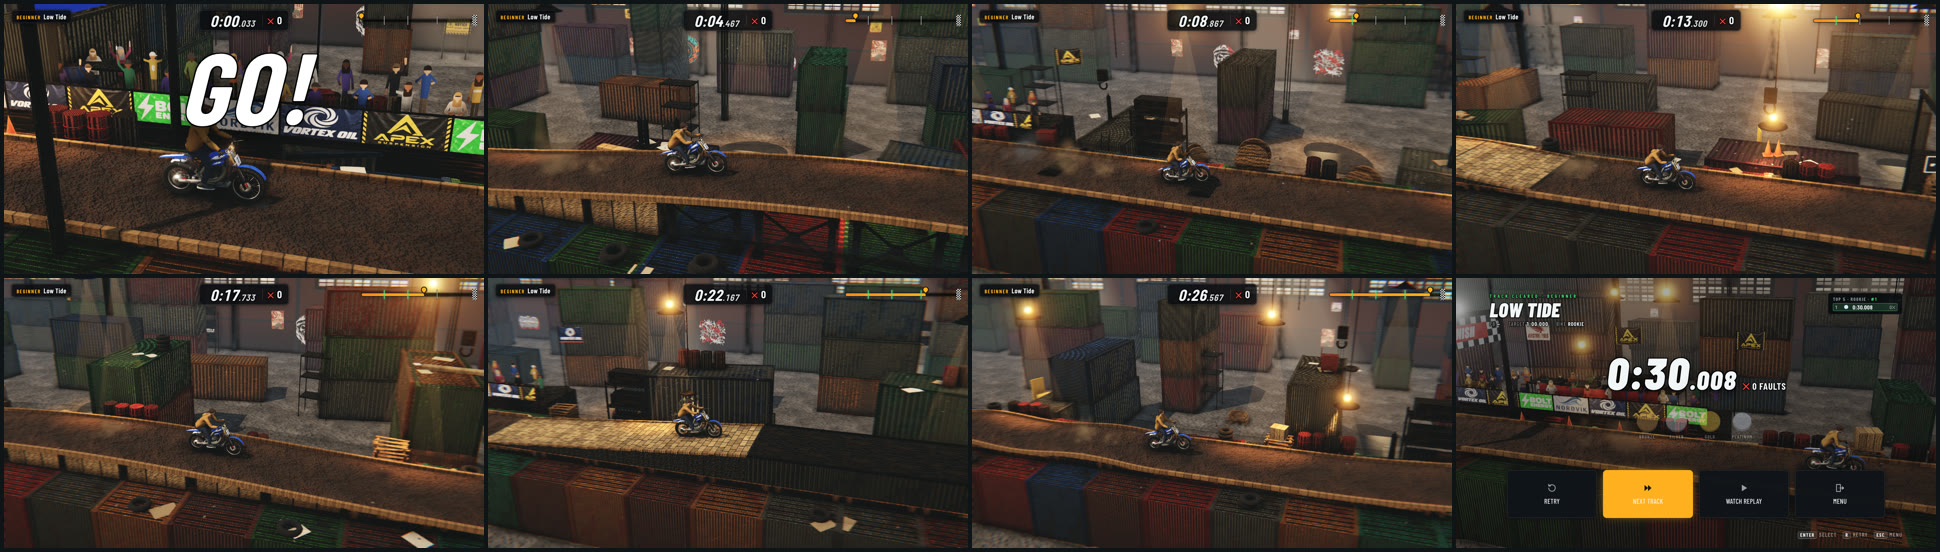
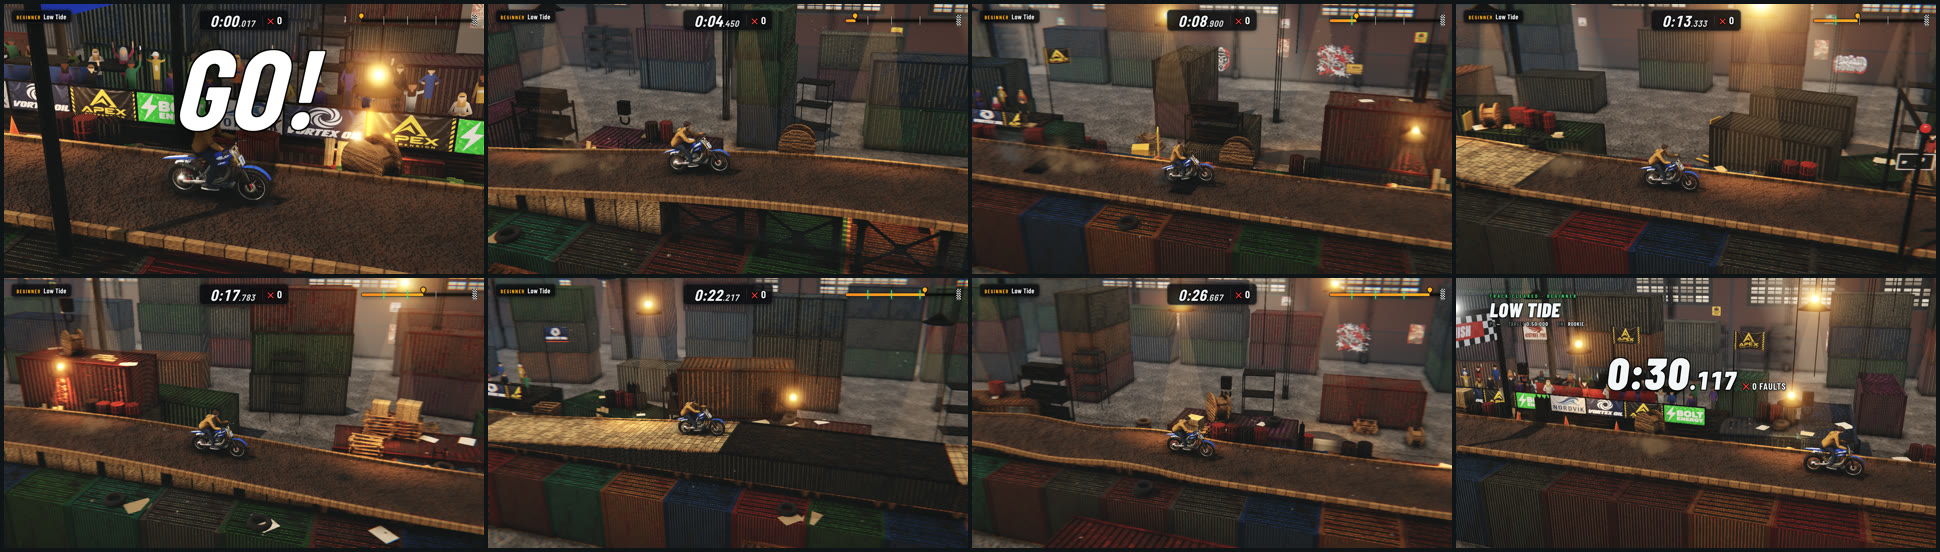
Low Tide clears on held full gas: its container steps were bare 0.3 m faces that endoed a 17 m/s bike (the stranger's crash at x 327.7), now 4 m pallet wedges; reflex 1.09 still under Crane Hop's 1.16, and Crane Hop's hints say hold the gas off the lip and lean back when the nose drops
C1 causeway: container 1 -> 4 m wedge -> container 2 (6 m) -> 4 m wedge -> container 3
(8 m) -> gangway. A fixed-policy battery through it (approach 6-14 m/s or full gas;
held gas / coast / reactive lean back / lean forward; standing respawn at CP2) goes
from 22/36 + 4/6 to 36/36 + 6/6. Reflex, 45 seeds: novice 1.18 (=), average 1.07 -> 1.09
(one seed falls at the rollers after the gangway), good 1.04 -> 1.00. Skill-3 golden
30.117 s, determinism 9/9. Originality max r 0.530 (was 0.498), < 0.6.

Hints checked against the physics: C1 "Stay on the gas up the containers"; C2
"Hold the gas off the pier lip" (coasting off either lip at full speed crashes) and
"Lean back if the nose drops" (leaning forward when the nose rises crashes pier 2);
P-C and P-S playground hints fixed the same way.

diff --git a/src/tracks/rockhop/coast.ts b/src/tracks/rockhop/coast.ts
@@ -12,20 +12,25 @@ import { rockhop } from './builder';
 /**
  * C1 LOW TIDE — the tide is out and the causeway is dry. TEACHES throttle: hold it up the slipway, keep it
  * steady over the tyre line and the ripples, ease it down the gangway. DEMANDS the causeway: up a pallet ramp onto
- * a row of containers (stepping up 0.3 m a container) and off the end down a 10 x h gangway.
- * No jump anywhere: every rise is a cosine grounded at 20 m/s.
+ * a row of containers (stepping up 0.3 m a container, a pallet wedge up each step) and off the end down a 12.5 x h
+ * gangway. No jump anywhere: every rise is a cosine grounded at 20 m/s.
+ *
+ * Stranger round rockhop-r1: the containers stepped up as bare 0.3 m faces. At full gas (~17 m/s) the pallet ramp's
+ * top floats the bike onto the end of the first container, the front wheel hits the face, the rear bucks off it and
+ * the bike endoes into the second step (crash x 327.7). Track 1 has to clear first time on held gas, so each step is
+ * now a 4 m pallet wedge (4.3 deg): held gas, coasting, and a stop-start respawn at the checkpoint all roll them.
  */
 export const C1 = rockhop('C1', 'c1-low-tide', 'Low Tide', 'coast', 'beginner', {
   technique: 'throttle control',
-  demands: 'the causeway: a pallet ramp onto three containers, stepping up 0.3 m a container, and the gangway down',
+  demands: 'the causeway: a pallet ramp onto three containers, stepping up 0.3 m a container on pallet wedges, and the gangway down',
   idea: 'the harbour at low tide: ride the dry causeway out to the containers',
   hero: 'The Causeway',
   attemptsBand: [1, 1],
-  targetTimeS: 50, // gold: skill-3 bot 30.01 s x 1.6, rounded up to 5 s, non-decreasing through the tier (OBSIDIAN = 0.85 x gold, 0 bails)
+  targetTimeS: 50, // gold: skill-3 bot 30.12 s x 1.6, rounded up to 5 s, non-decreasing through the tier (OBSIDIAN = 0.85 x gold, 0 bails)
 })
   .hint('Hold the gas up the slipway')
   .hint('Steady gas over the tyres')
-  .hint('Roll the step on the containers')
+  .hint('Stay on the gas up the containers')
   .hint('Ease off down the gangway')
   .camera({ mode: 'side' })
   .setPiece('start', 'The Slipway')
@@ -64,7 +69,9 @@ export const C1 = rockhop('C1', 'c1-low-tide', 'Low Tide', 'coast', 'beginner', 
   .setPiece('balance', 'The Causeway')
   .ramp({ length: 12, height: 1.0, surface: 'wood', prop: 'pallet' }) // 4.8 deg pallet ramp
   .box({ width: 8, height: 1.0, prop: 'container', variant: 0 })
-  .box({ width: 8, height: 1.3, prop: 'container', variant: 1 }) // each container 0.3 m taller: a kerb that rolls
+  .ramp({ length: 4, height: 0.3, surface: 'wood', prop: 'pallet' }, { base: 1.0 }) // a 4.3 deg pallet wedge up each 0.3 m step
+  .box({ width: 6, height: 1.3, prop: 'container', variant: 1 })
+  .ramp({ length: 4, height: 0.3, surface: 'wood', prop: 'pallet' }, { base: 1.3 })
   .box({ width: 8, height: 1.6, prop: 'container', variant: 2 })
   .ramp({ length: 20, height: 1.6, direction: 'down', surface: 'metal', prop: 'gangway' }) // 12.5 x h gangway
   .endSetPiece()
@@ -93,8 +100,8 @@ export const C2 = rockhop('C2', 'c2-crane-hop', 'Crane Hop', 'coast', 'beginner'
   attemptsBand: [1, 2],
   targetTimeS: 50, // gold: skill-3 bot 25.26 s x 1.6, rounded up to 5 s, non-decreasing through the tier (OBSIDIAN = 0.85 x gold, 0 bails)
 })
-  .hint('Gas up the pier, off at the lip')
-  .hint('Lean forward to level')
+  .hint('Hold the gas off the pier lip') // rockhop-r1: coasting off the lip at full speed pitches the nose down
+  .hint('Lean back if the nose drops') // not forward: leaning forward when the nose rises crashes pier 2 at >= 12 m/s
   .hint('Land on the ramp down')
   .hint('Full speed for the barge')
   .camera({ mode: 'side' })

diff --git a/src/tracks/rockhop/playgrounds.ts b/src/tracks/rockhop/playgrounds.ts
@@ -35,7 +35,7 @@ function playground(zone: ZoneId, code: string, name: string, idea: string, dema
 
 /** The harbour yard: slipway, tyres, pier hops, a pontoon gap, the container stack and its gangway. */
 export const P_COAST = playground('coast', 'PC', 'Harbour Yard', 'the whole scrapyard at an easy roll', 'nothing new: a pier hop, sunk tyres, a 2.5 m pontoon gap, a pallet kerb, a container stack and its gangway', (b, seg) => {
-  b.hint('Gas up the pier, off at the lip').hint('Steady over the tyres').hint('Ease off down the gangway').camera({ mode: 'side' });
+  b.hint('Gas up the pier, lean back if the nose drops').hint('Steady over the tyres').hint('Ease off down the gangway').camera({ mode: 'side' });
   seg('The harbour gate and the slipway');
   b.setPiece('start', 'The Harbour Gate').flat(6).arch({ style: 'start' }).flat(18).endSetPiece();
   b.smooth(20, 1.4).flat(10).descent(20, 1.4, 20).flat(8).checkpoint();
@@ -99,7 +99,7 @@ export const P_QUARRY = playground('quarry', 'PD', 'Quarry Floor', 'the quarry f
 
 /** The piste: fence kerbs, the snow-cat ramp, an ice-shelf gap, a board, a low tower shelf and the run down. */
 export const P_SNOWLINE = playground('snowline', 'PS', 'Piste', 'the ski area at an easy roll', 'nothing new: fence kerbs, a 2.5 m ice-shelf gap, the snow-cat blade ramp, a 17 deg board, the long run down', (b, seg) => {
-  b.hint('Roll the fence kerbs').hint('Gas to the ramp, off at the lip').hint('Slow onto the board').camera({ mode: 'side' });
+  b.hint('Roll the fence kerbs').hint('Hold the gas over the ice gap').hint('Slow onto the board').camera({ mode: 'side' });
   seg('The base station and the fence kerbs');
   b.setPiece('start', 'The Base Station').flat(6).arch({ style: 'start' }).flat(18).endSetPiece();
   b.ledge({ height: 0.25, length: 5, surface: 'wood', prop: 'fence' }).ramp({ length: 3, height: 0.25, direction: 'down', surface: 'snow', prop: 'ice-ledge' }).flat(8);

diff --git a/docs/evidence/store-release/tracks/difficulty.md b/docs/evidence/store-release/tracks/difficulty.md
@@ -6,7 +6,7 @@ Bar 4 reading, skill `average`: mean attempts strictly rising C1 -> S3 **yes**, 
 
 | track | avg median | avg mean | avg clears | novice median / mean (clears) | good median / mean | avg time to clear (s) | skill-3 golden | top death sites (avg) |
 |---|---:|---:|---|---|---|---:|---|---|
-| c1-low-tide | 1 | 1.07 | 45/45 | 1 / 1.18 (45/45) | 1 / 1.04 | 43.1 | 30.008 s, 1 att | ground@110:air-short x2; ground@105:air-gas-nose-up x1 |
+| c1-low-tide | 1 | 1.09 | 45/45 | 1 / 1.18 (45/45) | 1 / 1.00 | 42.9 | 30.117 s, 1 att | ground@110:air-short x2; ground@105:air-gas-nose-up x1; ground@380:nose-low x1 |
 | c2-crane-hop | 1 | 1.16 | 45/45 | 1 / 1.40 (45/45) | 1 / 1.13 | 38.1 | 25.258 s, 1 att | ramp@313:climbing x1; ramp@313:cruise x1 |
 | c3-hull-breach | 2 | 1.58 | 45/45 | 2 / 2.18 (45/45) | 1 / 1.11 | 49.5 | 30.800 s, 1 att | ramp@362:climbing x6; ramp@362:air-gas-nose-up x5 |
 | a1-sawdust | 2 | 1.73 | 45/45 | 2 / 2.24 (45/45) | 1 / 1.53 | 45.3 | 26.483 s, 1 att | ramp@320:air-gas-nose-up x3; ramp@146:air-gas-nose-up x3 |
@@ -18,6 +18,10 @@ Bar 4 reading, skill `average`: mean attempts strictly rising C1 -> S3 **yes**, 
 | s1-lift-line | 5 | 5.80 | 45/45 | 7 / 7.20 (45/45) | 5 / 5.13 | 70.1 | 30.683 s, 1 att | pole@357:air-gas-nose-up x51; pole@170:air-gas-nose-up x18 |
 | s2-cornice | 7 | 7.20 | 45/45 | 7 / 7.51 (45/45) | 7 / 8.18 | 89.7 | 34.875 s, 1 att | ramp@55:air-short x24; ledge@249:stuck-restart x22 |
 | s3-whiteout | 9 | 9.69 | 45/45 | 8 / 15.27 (40/45) | 7 / 7.11 | 107.8 | 29.633 s, 1 att | gap@55:air-short x48; pole@339:air-gas-nose-up x44 |
+
+**C1 re-measured after stranger round rockhop-r1** (src fingerprint 56482684, same physics, same seeds; every other row is unchanged). The stranger crashed Low Tide once, at full gas on the container steps (x 327.7): the pallet ramp's top floats a 17 m/s bike onto the end of the first container, the front wheel hits the bare 0.3 m face and the bike endoes into the next step. Each step is now a 4 m pallet wedge (4.3 deg); container 2 is 6 m, container 3 8 m. A fixed-policy battery through the causeway (approach at 6 / 8 / 10 / 12 / 14 m/s or full gas, then held gas, coasting, gas or coast with a lean back when the nose drops, a lean forward when it rises, both; plus a standing respawn at checkpoint 2) went from 22/36 + 4/6 clean to 36/36 + 6/6; held gas from the start line now finishes in 31.0 s with no fault. Reflex: the good bot's two container deaths are gone (1.04 -> 1.00), novice is unchanged (1.18), and average moves 1.07 -> 1.09 on one seed whose bot stood the bike on its front wheel down the gangway and fell at the rollers (x 380). The curve still rises strictly (C1 1.09 < C2 1.16).
+
+**Beginner hints checked against the physics** (the same battery at every hinted feature; a wrong hint is worse than none). C1: all four hints hold (held gas and coasting both clear every section); "Roll the step on the containers" becomes "Stay on the gas up the containers". C2: "Gas up the pier, off at the lip" read as off the gas, and coasting off either pier lip at full speed crashes (x 74, x 139), so it becomes "Hold the gas off the pier lip"; "Lean forward to level" becomes "Lean back if the nose drops" (leaning back when the nose drops never crashed; leaning forward when it rises crashes pier 2 at 12 m/s and up); "Land on the ramp down" and "Full speed for the barge" hold. Playgrounds (also beginner tier): P-C's pier needs the same lean back at 18 m/s ("Gas up the pier, lean back if the nose drops"); P-S "Gas to the ramp, off at the lip" becomes "Hold the gas over the ice gap" (coasting off at 7 m/s lands short); P-A and P-D hints hold (leaning back up P-D's belt crashes at every speed, forward never does).
 
 Zone playgrounds (free ride, beginner pace):
 

diff --git a/docs/evidence/store-release/tracks/originality.md b/docs/evidence/store-release/tracks/originality.md
@@ -7,7 +7,7 @@ Retired set: 24 courses (curriculum, p1-p5 playgrounds, labs). New set: 16 cours
 
 | code | track | max r | closest retired | metric r | stretched r | 2nd closest | pass |
 |---|---|---:|---|---:|---:|---|---|
-| C1 | c1-low-tide | 0.498 | lab-ramp-jump | -1.000 | 0.498 | p1-container-yard 0.495 | yes |
+| C1 | c1-low-tide | 0.530 | e1-uphill-weight | 0.530 | 0.246 | lab-ramp-jump 0.489 | yes |
 | C2 | c2-crane-hop | 0.373 | m1-hop-up | 0.373 | 0.237 | p2-canyon-run 0.367 | yes |
 | C3 | c3-hull-breach | 0.553 | x1-vertical-limit | -1.000 | 0.553 | p4-night-circuit 0.452 | yes |
 | A1 | a1-sawdust | 0.412 | b1-first-ride | 0.412 | 0.199 | e1-uphill-weight 0.409 | yes |
@@ -31,10 +31,10 @@ Worst pair overall: d1-dust-devil vs p3-snow-line at 0.555.
 | a | b | r |
 |---|---|---:|
 | c3-hull-breach | d2-conveyor | 0.681 |
-| c1-low-tide | p-coast | 0.659 |
+| c1-low-tide | p-coast | 0.645 |
 | c3-hull-breach | p-coast | 0.634 |
 | c2-crane-hop | c3-hull-breach | 0.617 |
 | p-alpine | p-quarry | 0.606 |
+| c1-low-tide | d2-conveyor | 0.587 |
 | c3-hull-breach | p-alpine | 0.578 |
-| c1-low-tide | p-quarry | 0.577 |
-| c1-low-tide | d2-conveyor | 0.564 |
+| c1-low-tide | p-quarry | 0.567 |
